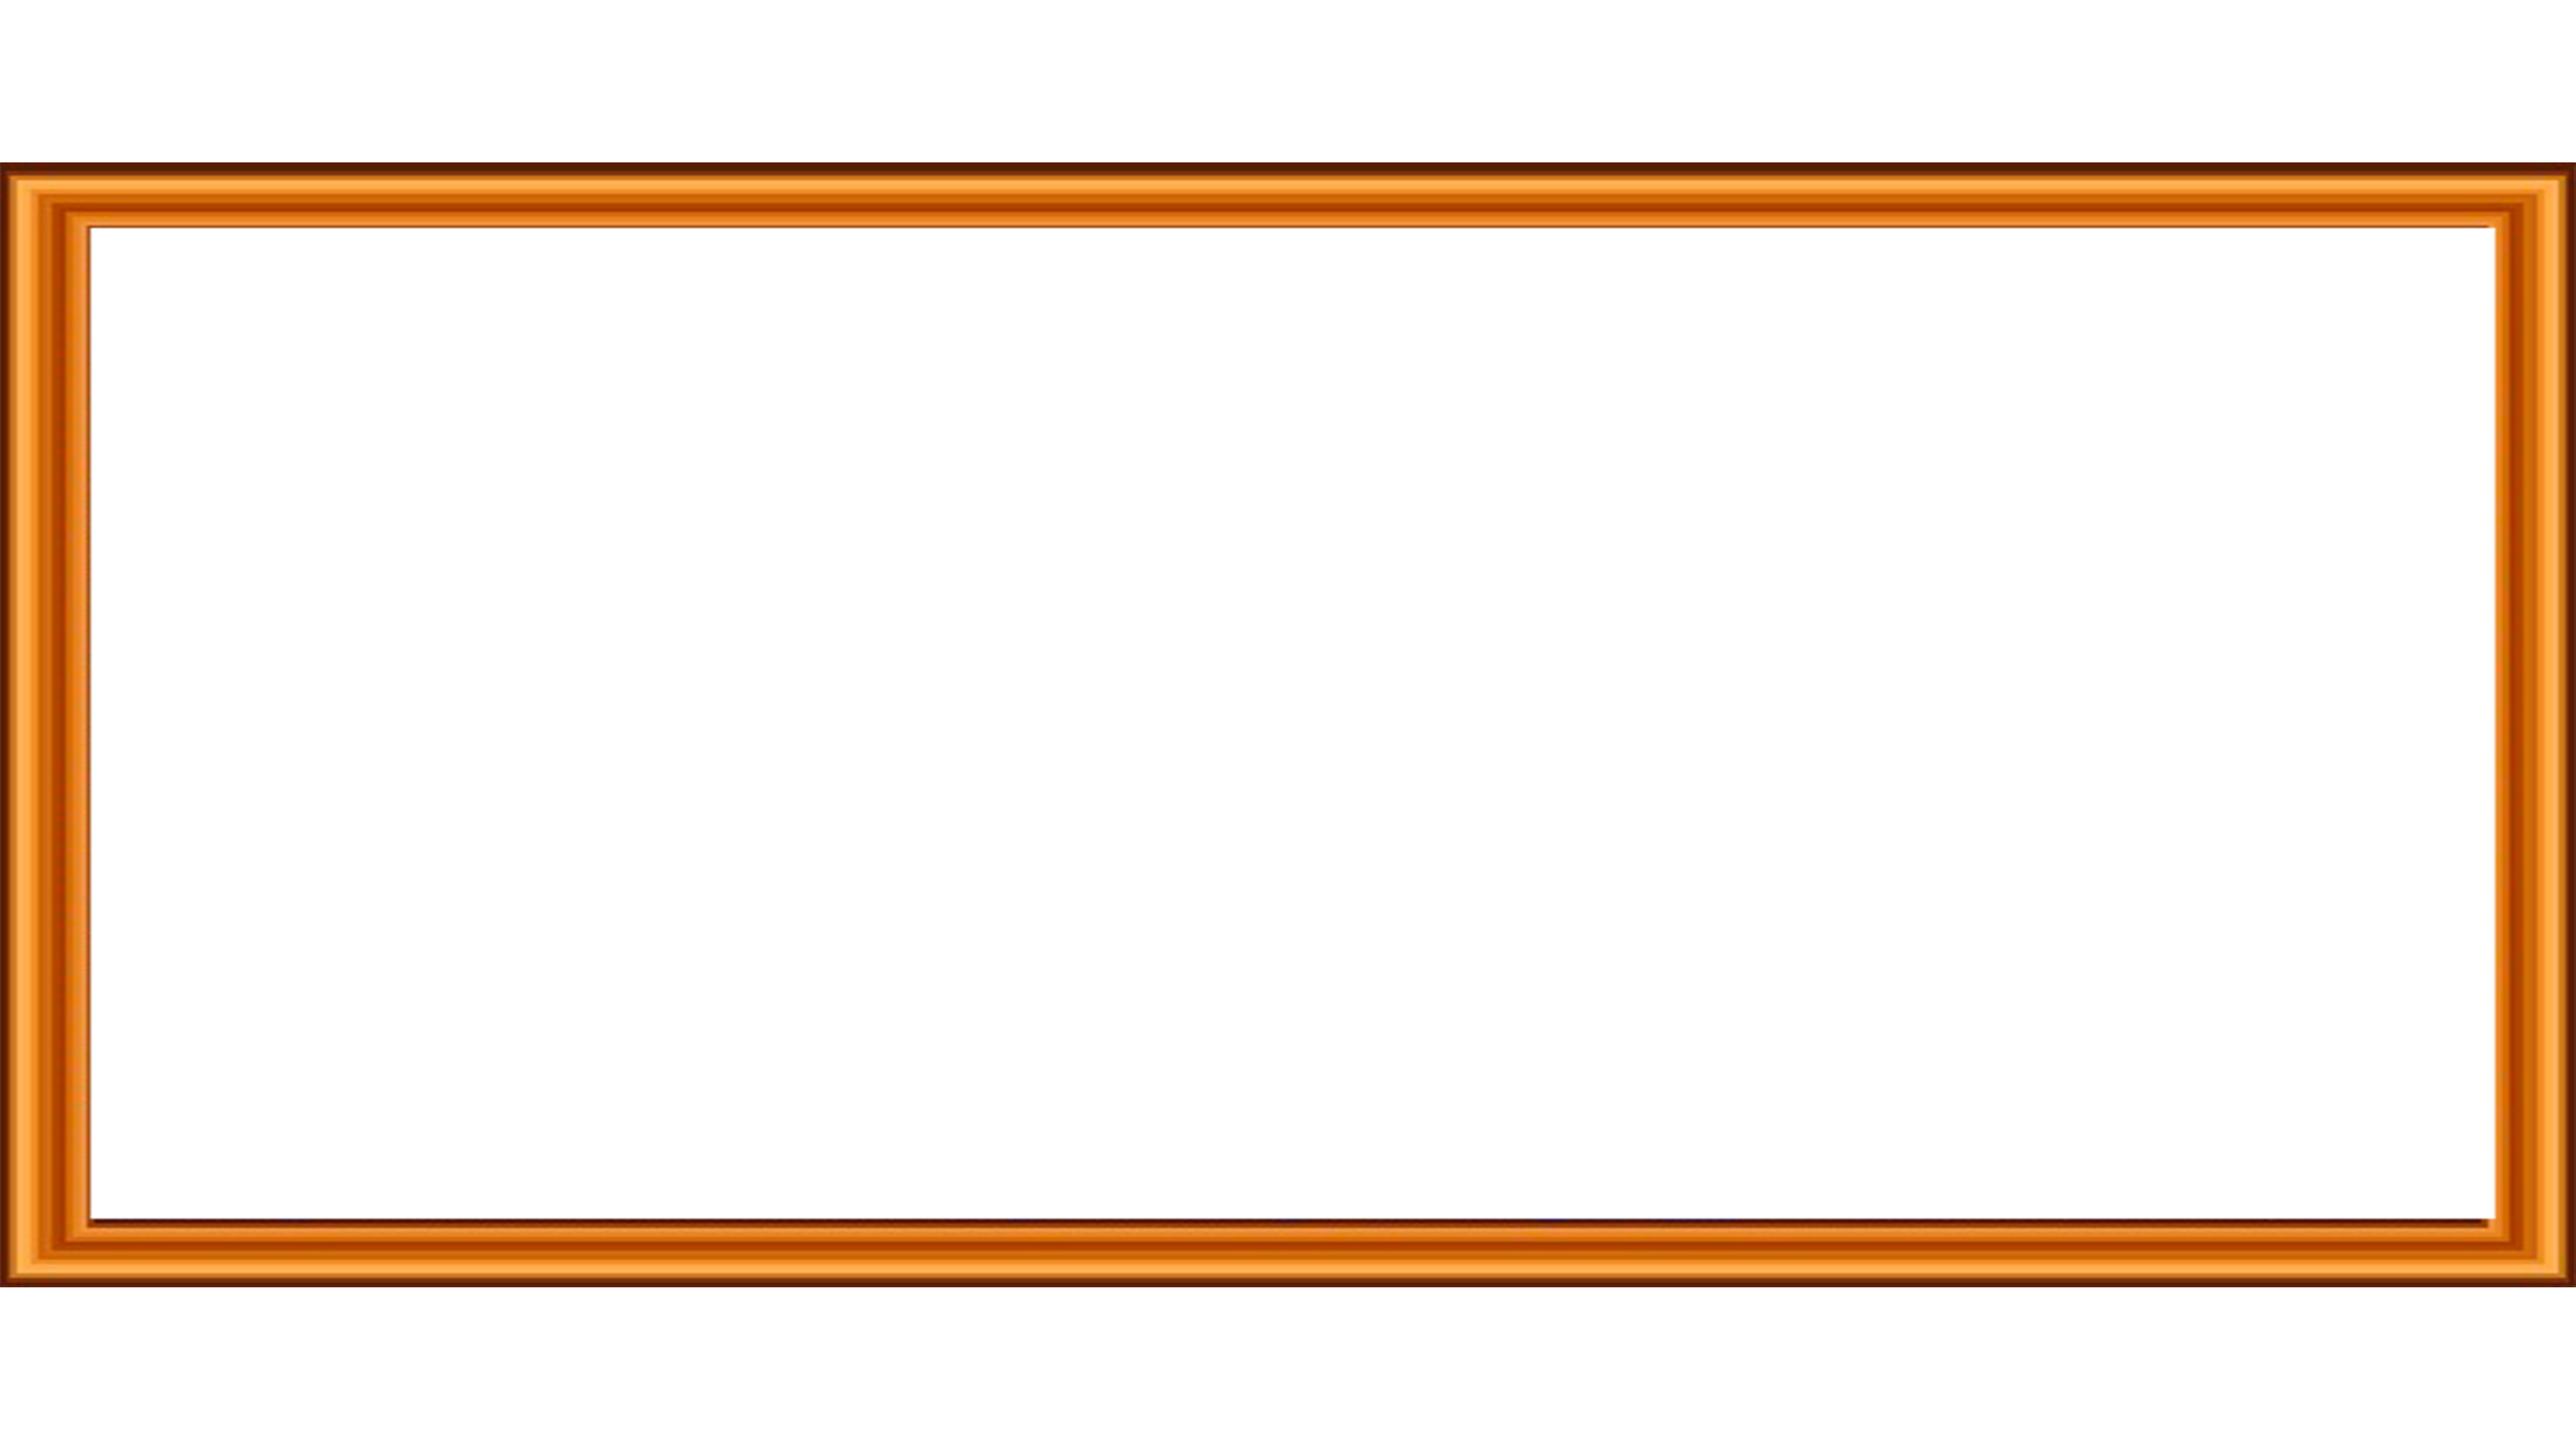
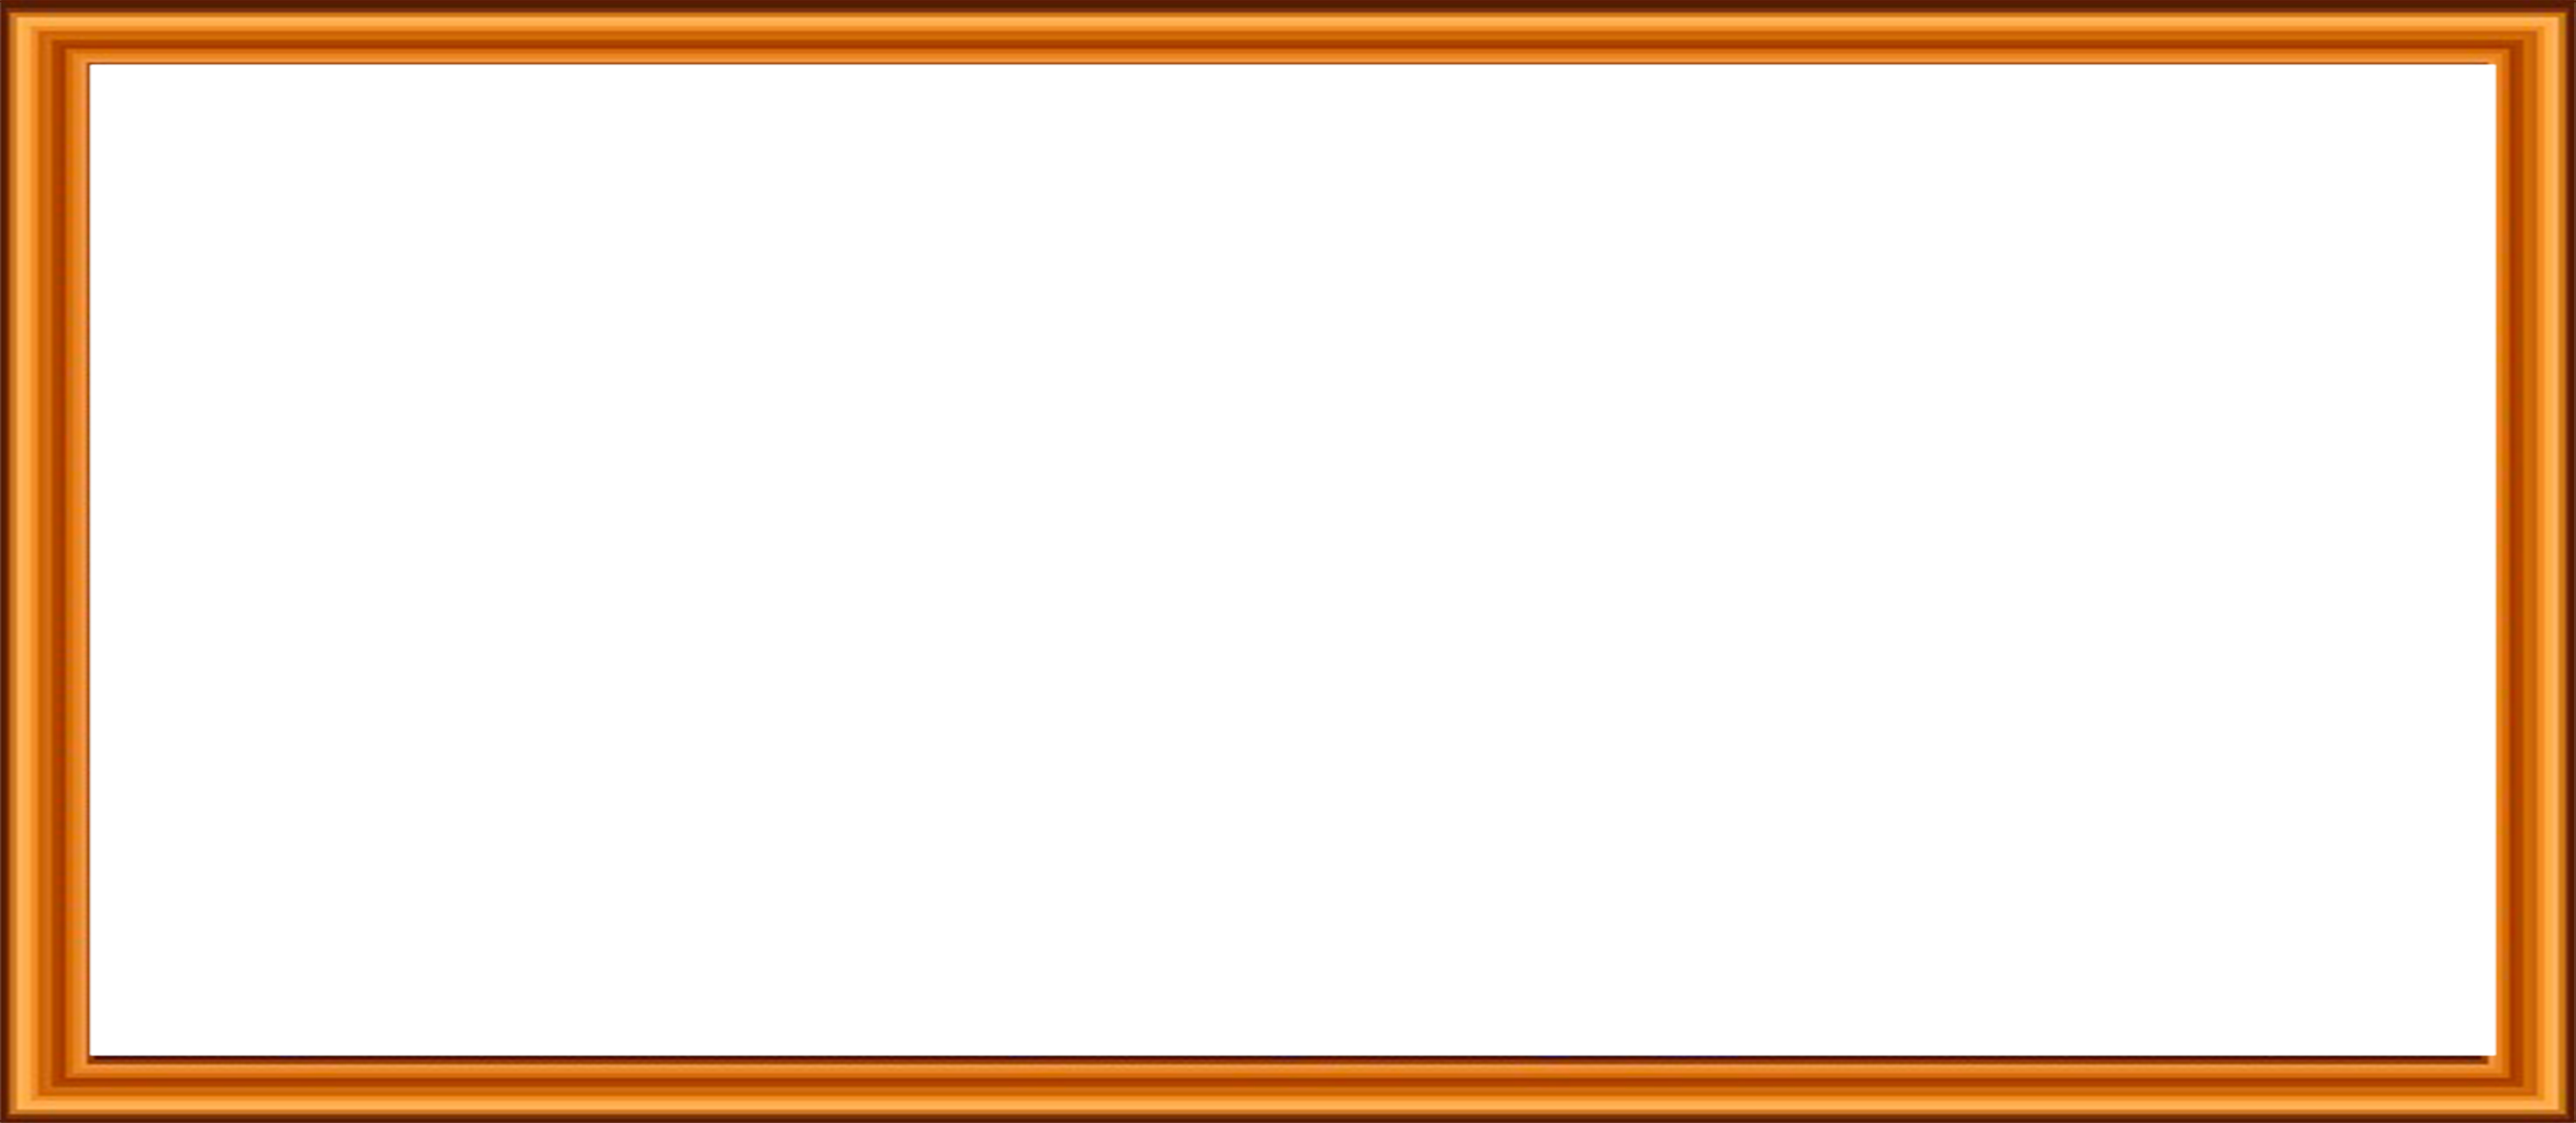
pombo fica dentro do quadro

Changed region(s): [[0.0, 0.8382, 1.0, 1.0], [0.0, 0.0, 1.0, 0.1863]]

diff --git a/src/scenes/phase1.js b/src/scenes/phase1.js
@@ -19,8 +19,9 @@ export default class Phase1 extends Phaser.Scene {
         // Adiciona máscara branca, quadro e a borda
         this.bg = this.add.image(this.width / 2, this.height / 2, 'bgWhite').setDisplaySize(this.width, this.width/1.77);
         this.quadro = this.add.image(this.width / 2, this.height / 2, 'quadro').setDisplaySize(this.width, this.width/1.77);
-        this.borda = this.add.image(this.width / 2, this.height / 2, 'borda').setDisplaySize(this.width, this.width/1.77);
-        
+        this.borda = this.add.image(this.width / 2, this.height / 2, 'borda').setDisplaySize(this.width, this.width/2.3);
+        this.bordaHitbox = this.borda.displayWidth/35;
+
         // Torna o quadro visível
         this.quadro.setAlpha(1); 
         
@@ -56,6 +57,10 @@ export default class Phase1 extends Phaser.Scene {
 
         // Configura e adiciona o pombo na tela
         this.spawnPombo();
+
+        console.log(this.borda.y)
+        console.log(this.borda.height)
+        console.log(this.borda.displayHeight)
     }
 
     update(){
@@ -187,23 +192,23 @@ export default class Phase1 extends Phaser.Scene {
 
     movimento(alvo) {
         // Limite para a borda em X considerando a hitbox do pombo
-        if (alvo.x >= (this.width - alvo.hitboxWidth)) {
+        if (alvo.x >= (this.width - alvo.hitboxWidth - this.bordaHitbox)) {
             // Direção para a esquerda
             alvo.setFlip(false, false);
             alvo.direcaoX = -1;
         }
-        if (alvo.x <= (0 + alvo.hitboxWidth)) {
+        if (alvo.x <= (0 + alvo.hitboxWidth + this.bordaHitbox)) {
             // Direção para a direita
             alvo.setFlip(true, false);
             alvo.direcaoX = 1;
         }
     
         // Limite para a borda em Y considerando a hitbox do pombo
-        if (alvo.y >= (this.height - alvo.hitboxHeight)) {
+        if (alvo.y >= (this.borda.y + (this.borda.displayHeight/2) - alvo.hitboxHeight - this.bordaHitbox)) {
             // Direção para cima
             alvo.direcaoY = -1;
         }
-        if (alvo.y <= (0 + alvo.hitboxHeight)) {
+        if (alvo.y <= (this.borda.y - (this.borda.displayHeight/2) + alvo.hitboxHeight + this.bordaHitbox)) {
             // Direção para baixo
             alvo.direcaoY = 1;
         }

diff --git a/index.html b/index.html
@@ -23,13 +23,13 @@
         type: Phaser.AUTO,
         width: innerWidth,
         height: innerHeight,
-        scene: [SplashScreen, Menu, Tutorial, BasePhase, Phase1], // Adicione as cenas ao jogo
+        scene: [SplashScreen, /*Menu, Tutorial, BasePhase,*/ Phase1], // Adicione as cenas ao jogo
         scale: {
             mode: Phaser.Scale.RESIZE,
             autoCenter: Phaser.Scale.CENTER_BOTH,
         }
-
     };
+
     // Instancia do jogo
     const game = new Phaser.Game(config);
     

diff --git a/src/scenes/splashScreen.js b/src/scenes/splashScreen.js
@@ -40,7 +40,7 @@ export default class SplashScreen extends Phaser.Scene {
             // Aguarda o fadeOut antes de iniciar a próxima cena
             this.time.delayedCall(1500, () => {
                 this.scene.stop('SplashScreen'); // Para a cena atual
-                this.scene.start('Menu'); // Inicia a cena Menu
+                this.scene.start('Phase1'); // Inicia a cena Menu
             }); 
         });          
     }
